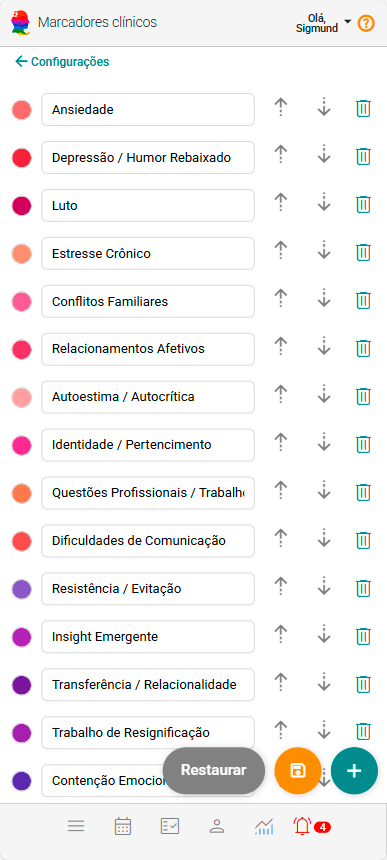
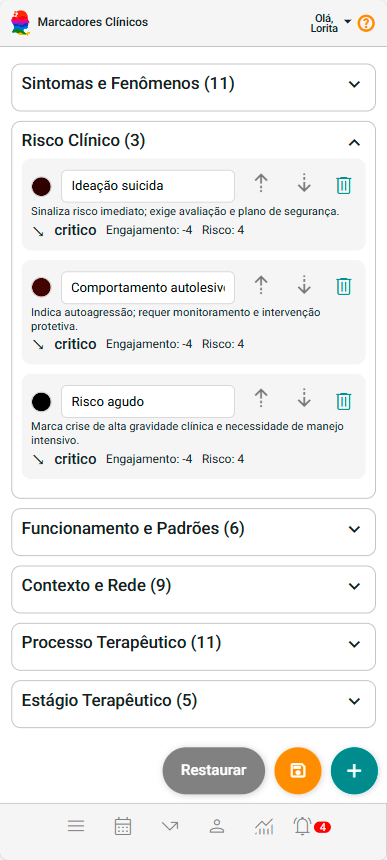
nilson

diff --git a/docs/08_funcionalidades/01-configuracoes/01_agenda/03_marcadores-clinicos.md b/docs/08_funcionalidades/01-configuracoes/01_agenda/03_marcadores-clinicos.md
@@ -4,109 +4,204 @@ sidebar_position: 3
 
 # Marcadores Clínicos
 
-Os **Marcadores Clínicos** permitem ao psicólogo **destacar atendimentos** com etiquetas coloridas que representam temas, estados emocionais, fases do processo terapêutico ou qualquer outro elemento que você considere clinicamente relevante.
+Os **Marcadores Clínicos** permitem ao psicólogo **estruturar a leitura do processo terapêutico** por meio de sinais clínicos organizados, categorizados e ponderados.
 
-Eles funcionam como **indicadores visuais** na agenda e ajudam na **análise de evolução** ao longo dos atendimentos.
+Mais do que etiquetas visuais, os marcadores funcionam como:
 
-> **Exemplos de uso:**
-> - Emoções predominantes (ex.: Ansiedade, Raiva, Tristeza)
-> - Temas trabalhados (ex.: Luto, Autoestima, Família)
-> - Etapa terapêutica (ex.: Avaliação, Reestruturação, Fechamento)
-> - Situações importantes (ex.: Crise, Encaminhamento)
+- **indicadores clínicos longitudinais**
+- base para **análise de evolução do paciente**
+- suporte para **decisões terapêuticas**
+- linguagem estruturada do cuidado dentro do eConsult
 
----
-
-## Acessando a Tela de Marcadores
-
-1. Acesse **Configurações** no menu lateral.
-2. Clique em **Marcadores Clínicos**.
-
-Você verá uma lista de marcadores que podem ser **editados, reordenados ou excluídos**.
+Eles aparecem na agenda, nos atendimentos e no **Acompanhamento Inteligente do Paciente**, contribuindo para a compreensão da trajetória clínica ao longo do tempo.
 
 ![Marcadores Clínicos](../../../../static/img/prints/marcadores-clinicos-configuracao/001.png)
 
 ---
 
+## Acessando a Configuração de Marcadores
+
+1. Acesse **Configurações** no menu lateral.
+2. Clique em **Marcadores Clínicos**.
+
+A tela apresenta:
+
+- marcadores organizados por **categoria clínica**
+- cartões com **nome, propósito, direção, valência e pesos**
+- ações rápidas para **editar, excluir ou criar novos marcadores**
+
+---
+
+## Estrutura Clínica dos Marcadores
+
+Cada marcador contém informações que permitem ao sistema interpretar seu significado clínico:
+
+| Campo | Função |
+|-------|--------|
+| **Categoria** | Organiza o raciocínio clínico (ex.: Risco, Processo, Contexto). |
+| **Nome** | Identificação rápida do fenômeno observado. |
+| **Cor** | Destaque visual na agenda e nos atendimentos. |
+| **Propósito** | Descrição breve do significado clínico. |
+| **Peso de Engajamento** | Impacto no vínculo e adesão ao tratamento. |
+| **Peso de Risco** | Impacto no risco clínico atual. |
+| **Direção** | Tendência clínica sugerida (↗ melhora, ↘ piora, — estabilidade). |
+| **Valência / Prioridade** | Gravidade ou proteção clínica do marcador. |
+
+Os campos de **direção, valência e prioridade** são calculados automaticamente a partir dos pesos informados.
+
+---
+
+## Organização por Categorias
+
+Os marcadores são exibidos em **grupos clínicos expansíveis**, como:
+
+- Sintomas e Fenômenos  
+- Risco Clínico  
+- Funcionamento e Padrões  
+- Contexto e Rede  
+- Processo Terapêutico  
+- Estágio Terapêutico  
+
+Essa organização favorece uma leitura alinhada ao **raciocínio clínico real**, permitindo identificar rapidamente áreas de maior atenção.
+
+---
+
 ## Alterando Marcadores Existentes
 
-Para cada marcador é possível:
+Em cada cartão é possível:
 
 | Ação | Resultado |
 |------|-----------|
-| **Alterar nome** | Adapta o marcador ao seu referencial clínico. |
-| **Alterar cor** | Ajusta a visualização na agenda. |
-| **Reordenar** | Define prioridade visual. |
-| **Excluir** | Remove marcadores que não fazem sentido para sua prática. |
+| **Editar nome ou cor** | Ajusta a leitura clínica e visual. |
+| **Excluir marcador** | Remove itens que não fazem sentido para sua prática. |
+
+As alterações passam a valer após clicar em **Salvar**.
 
 ---
 
 ## Criando um Novo Marcador
 
-1. Clique em **Incluir novo marcador** ![Marcadores Clínicos](../../../../static/img/prints/buttons/btn_add.png) ou ![Marcadores Clínicos](../../../../static/img/prints/marcadores-clinicos-configuracao/002.png).
-2. O sistema adicionará um item chamado *Novo Marcador*.
-3. Renomeie e selecione a cor desejada.
+1. Clique no botão **Incluir Novo Marcador** ![Marcadores Clínicos](../../../../static/img/prints/marcadores-clinicos-configuracao/002.png).
+2. Preencha as informações obrigatórias:
+   - Categoria  
+   - Nome  
+   - Cor  
+   - Propósito  
+   - Peso de Engajamento  
+   - Peso de Risco  
+3. Observe o **preview automático** de:
+   - direção clínica  
+   - valência  
+   - prioridade  
 4. Clique em **Salvar**.
 
-> Dica: use nomes **curtos e específicos** — leitura mais rápida na agenda.
+O sistema calculará automaticamente os demais campos clínicos.
+
+> **Dica clínica:**  
+> utilize nomes curtos, específicos e observáveis. Isso melhora a leitura longitudinal do caso.
 
 ---
 
 ## Restaurando Marcadores Padrão
 
-Caso deseje voltar à configuração inicial do eConsult:
+Para retornar à configuração inicial do eConsult:
 
 1. Clique em **Restaurar** ![Marcadores Clínicos](../../../../static/img/prints/marcadores-clinicos-configuracao/003.png).
-2. Confirme.
+2. Confirme a ação.
 
-> ⚠ Isto **substitui** sua lista atual pelos marcadores padrão.
+⚠ Esta operação **substitui completamente** seus marcadores atuais pelos padrões do sistema.
 
 ---
 
-## Salvando suas Alterações
+## Salvando Alterações
 
-Após editar, clique em **Salvar** (![Marcadores Clínicos](../../../../static/img/prints/marcadores-clinicos-configuracao/005.png) ou ![Marcadores Clínicos](../../../../static/img/prints/marcadores-clinicos-configuracao/004.png)) para que:
+O botão **Salvar** ![Marcadores Clínicos](../../../../static/img/prints/marcadores-clinicos-configuracao/004.png) ou ![Marcadores Clínicos](../../../../static/img/prints/marcadores-clinicos-configuracao/005.png) garante que:
 
-- Os marcadores fiquem disponíveis na agenda
-- Sejam aplicáveis aos atendimentos
-- Apareçam no painel de análise de marcadores
-- Possam ser utilizados ao longo do processo clínico
+- os marcadores fiquem disponíveis nos atendimentos
+- sejam utilizados na análise longitudinal
+- componham os indicadores do acompanhamento do paciente
+- integrem relatórios e visualizações clínicas
+
+---
+
+## Papel dos Marcadores no Acompanhamento do Paciente
+
+Quando utilizados ao longo das sessões, os marcadores permitem:
+
+- identificar **padrões recorrentes**
+- perceber **mudanças de direção clínica**
+- acompanhar **risco e engajamento**
+- sustentar decisões de **intervenção, encaminhamento ou encerramento**
+
+Eles constituem a **base estruturada do Acompanhamento Inteligente do Paciente**.
+
+> Importante:  
+> os Marcadores Clínicos **não são avaliações diagnósticas**.  
+> Eles representam **sinais narrativos contextualizados** do processo terapêutico.
 
 ---
 
 ## Boas Práticas Clínicas
 
-- Utilize entre **8 e 14 marcadores** → quantidade ideal para interpretação.
-- Escolha **cores contrastantes** para leitura rápida.
-- Evite marcadores vagos como *"OK"* ou *"Comum"*.
-- Revise sua lista a cada **período terapêutico** (ex.: trimestralmente).
+- Utilize **cores contrastantes** para facilitar a visualização.
+- Evite termos genéricos ou pouco informativos.
+- Revise periodicamente sua lista conforme a evolução da prática clínica.
 
 :::note Recomendação
-Apesar de o sistema disponibilizar uma variedade ampla de marcadores, recomenda-se manter entre 8 e 14 em uso. Portanto, ao habilitar os marcadores do sistema, revise e exclua aqueles que não fazem parte da sua prática, mantendo apenas os que realmente utiliza.
+Os marcadores devem refletir **seu modo de compreender o processo terapêutico**.  
+A personalização é parte essencial do uso clínico responsável.
 :::
 
 ---
 
-## Exemplo de Conjunto Personalizado
+## Exemplo de Conjunto Clínico
 
-| Marcador | Cor | Grupo Clínico |
-|---------|-----|---------------|
-| Ansiedade | Tom quente (vermelho/salmão) | Emoções |
-| Conflitos Familiares | Laranja | Temas Relacionais |
-| Autoimagem | Azul claro | Construção Psicológica |
-| Estabilização | Verde | Processo Terapêutico |
-| Encerramento | Roxo | Etapa Terapêutica |
+| Marcador | Categoria | Sentido Clínico |
+|----------|-----------|-----------------|
+| Ideação suicida | Risco Clínico | Risco imediato e necessidade de manejo. |
+| Ansiedade significativa | Sintomas | Sofrimento emocional predominante. |
+| Conflito familiar | Contexto | Fator relacional ativo. |
+| Aliança fortalecida | Processo | Aumento de vínculo terapêutico. |
+| Encerramento | Estágio | Finalização do processo. |
+
+---
+
+## O papel das cores nos Marcadores Clínicos
+
+As cores dos marcadores **não são decorativas**.  
+Elas fazem parte do **modelo clínico-visual do eConsult**, permitindo que o psicólogo compreenda o estado do cuidado **em poucos segundos**.
+
+A definição das cores segue quatro critérios combinados:
+
+| Critério | O que representa | Pergunta clínica implícita |
+|----------|------------------|----------------------------|
+| **Gravidade / urgência** | Intensidade do risco ou sofrimento | *Preciso agir agora?* |
+| **Domínio fenomenológico** | Tipo de fenômeno clínico | *É sintoma, risco, contexto ou processo?* |
+| **Posição no processo terapêutico** | Momento do cuidado | *Estamos em crise, intervenção ou estabilização?* |
+| **Legibilidade cognitiva** | Rapidez de leitura visual | *Entendo o estado do caso em 1 segundo?* |
+
+### Significado clínico das famílias de cores
+
+| Família de cor | Categoria clínica | Sentido terapêutico |
+|----------------|-------------------|---------------------|
+| **Preto / vermelho escuro** | Risco clínico | Prioridade máxima, necessidade de cuidado imediato |
+| **Vermelho / laranja** | Sintomas e sofrimento ativo | Alta carga emocional e ativação psíquica |
+| **Rosa / roxo médio** | Funcionamento e padrões | Aspectos estruturais do caso, não necessariamente crise |
+| **Amarelo / âmbar** | Contexto e rede | Fatores ambientais relevantes ao tratamento |
+| **Roxo / violeta** | Processo terapêutico | Elaboração, insight, dinâmica relacional |
+| **Azul / verde** | Estágio do tratamento | Organização do cuidado, estabilização e alta |
+
+> A cor comunica rapidamente **onde o paciente está no processo**, sem substituir o julgamento clínico do psicólogo.
 
 ---
 
-## Aplicação ao Longo do Processo
+## Síntese
 
-Ao usar marcadores sessão após sessão, é possível:
+Os Marcadores Clínicos transformam observações do atendimento em:
 
-- Visualizar **padrões clínicos**
-- Identificar **temas que persistem**
-- Registrar mudanças de foco e evolução
-- Apoiar decisões de **encaminhamento, supervisão e fechamento**
+- **estrutura clínica organizada**
+- **linguagem comum do cuidado**
+- **base para análise longitudinal**
+- **fundamento do acompanhamento inteligente**
 
-> Os Marcadores Clínicos **não são avaliativos** — são **narrativos**, expressam percepção terapêutica contextualizada.
-
----
+Eles conectam a prática cotidiana do psicólogo à **compreensão contínua da evolução do paciente** dentro do eConsult.
